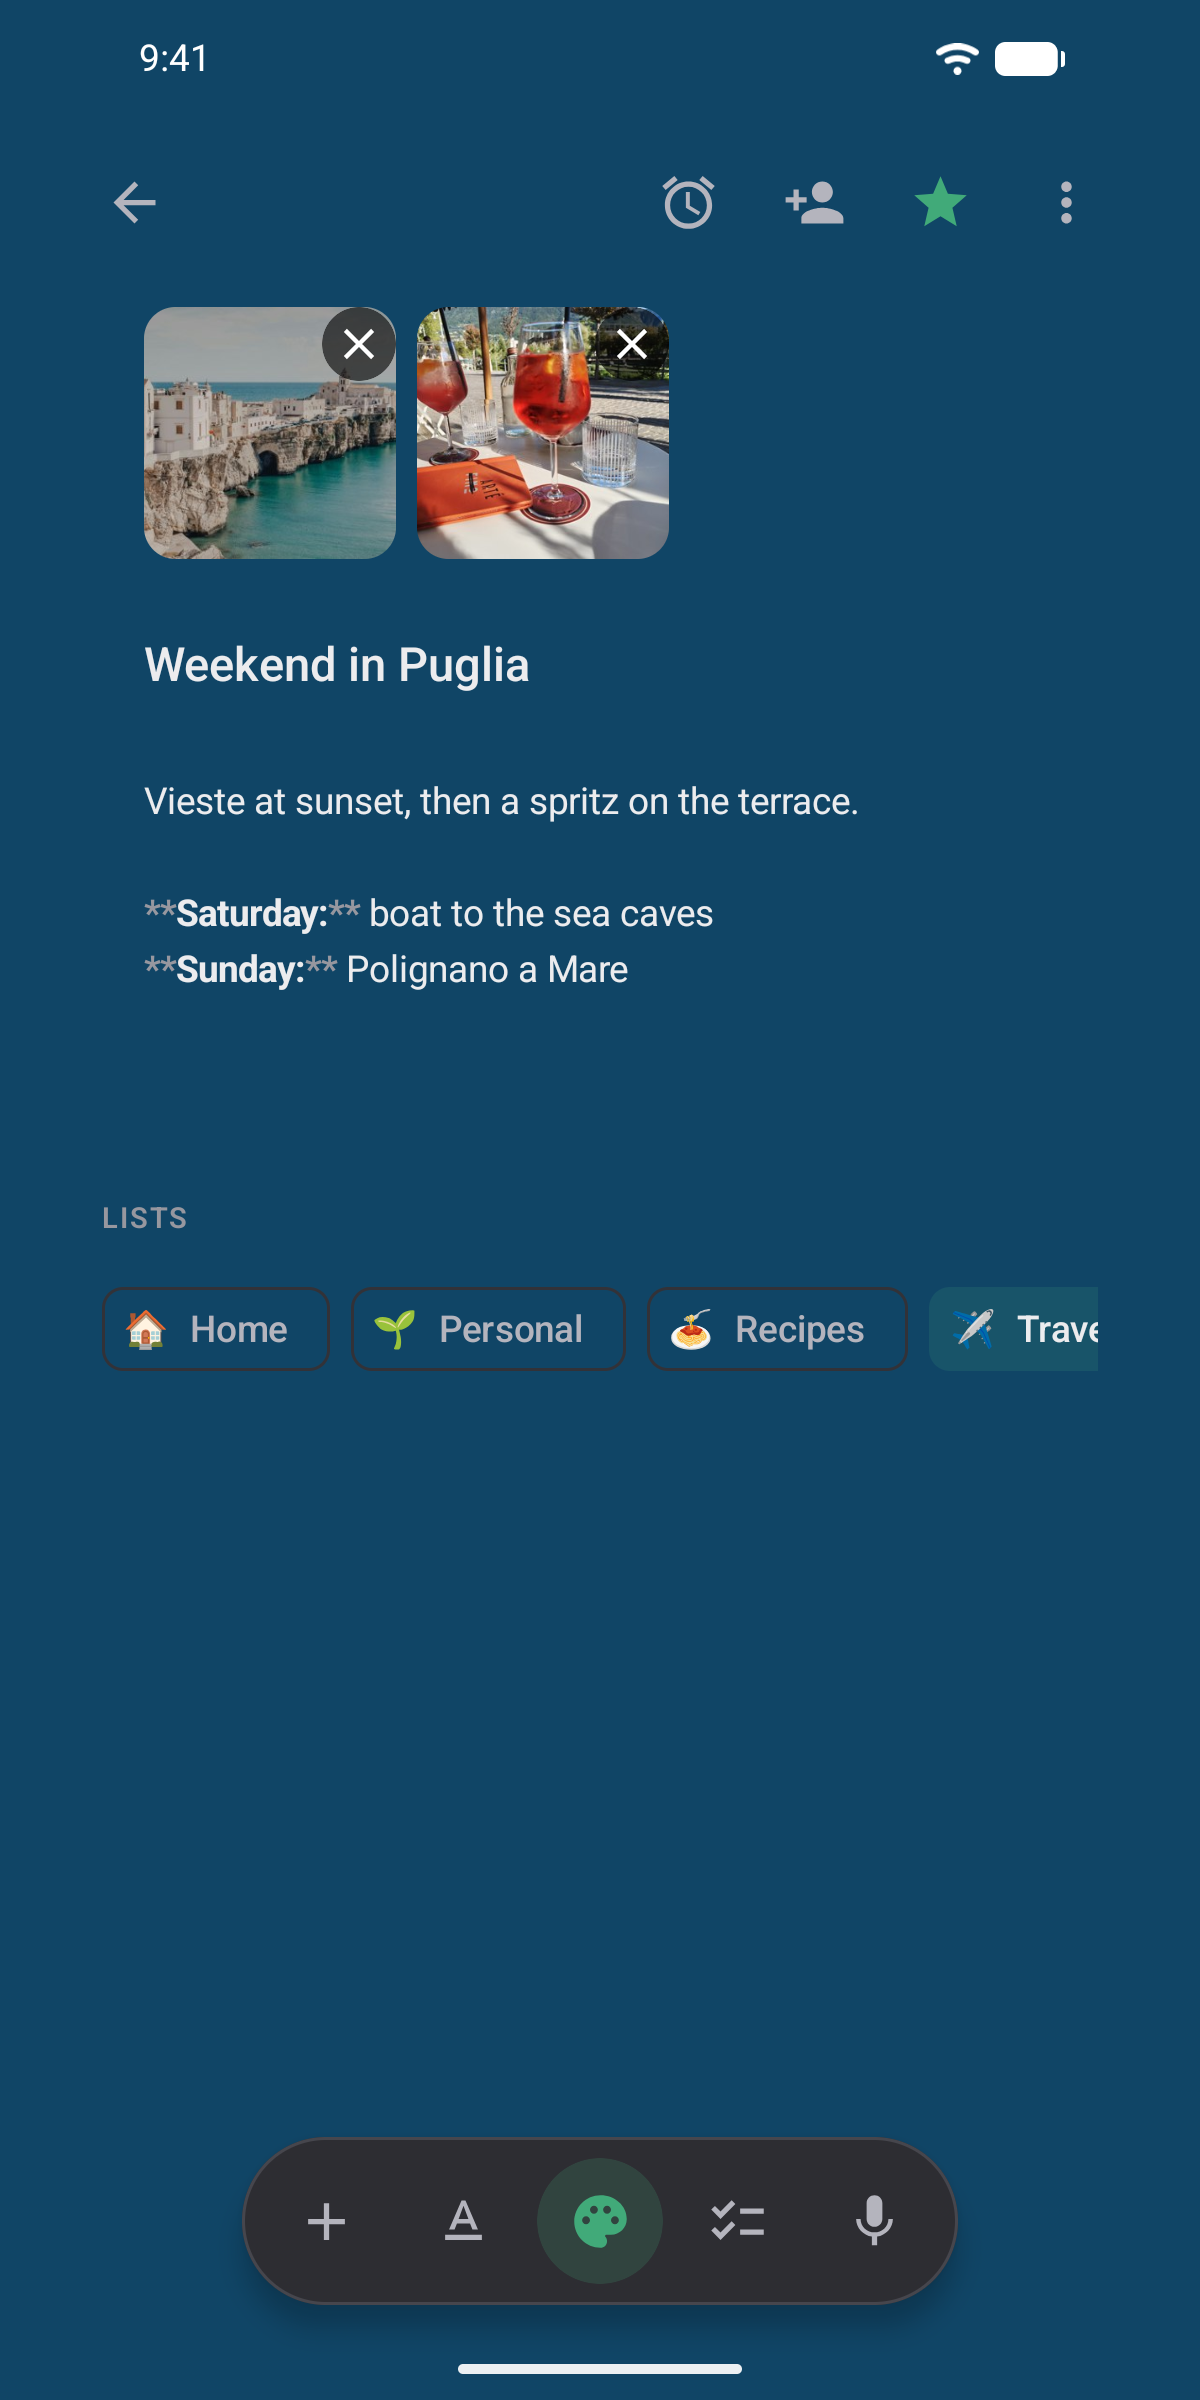
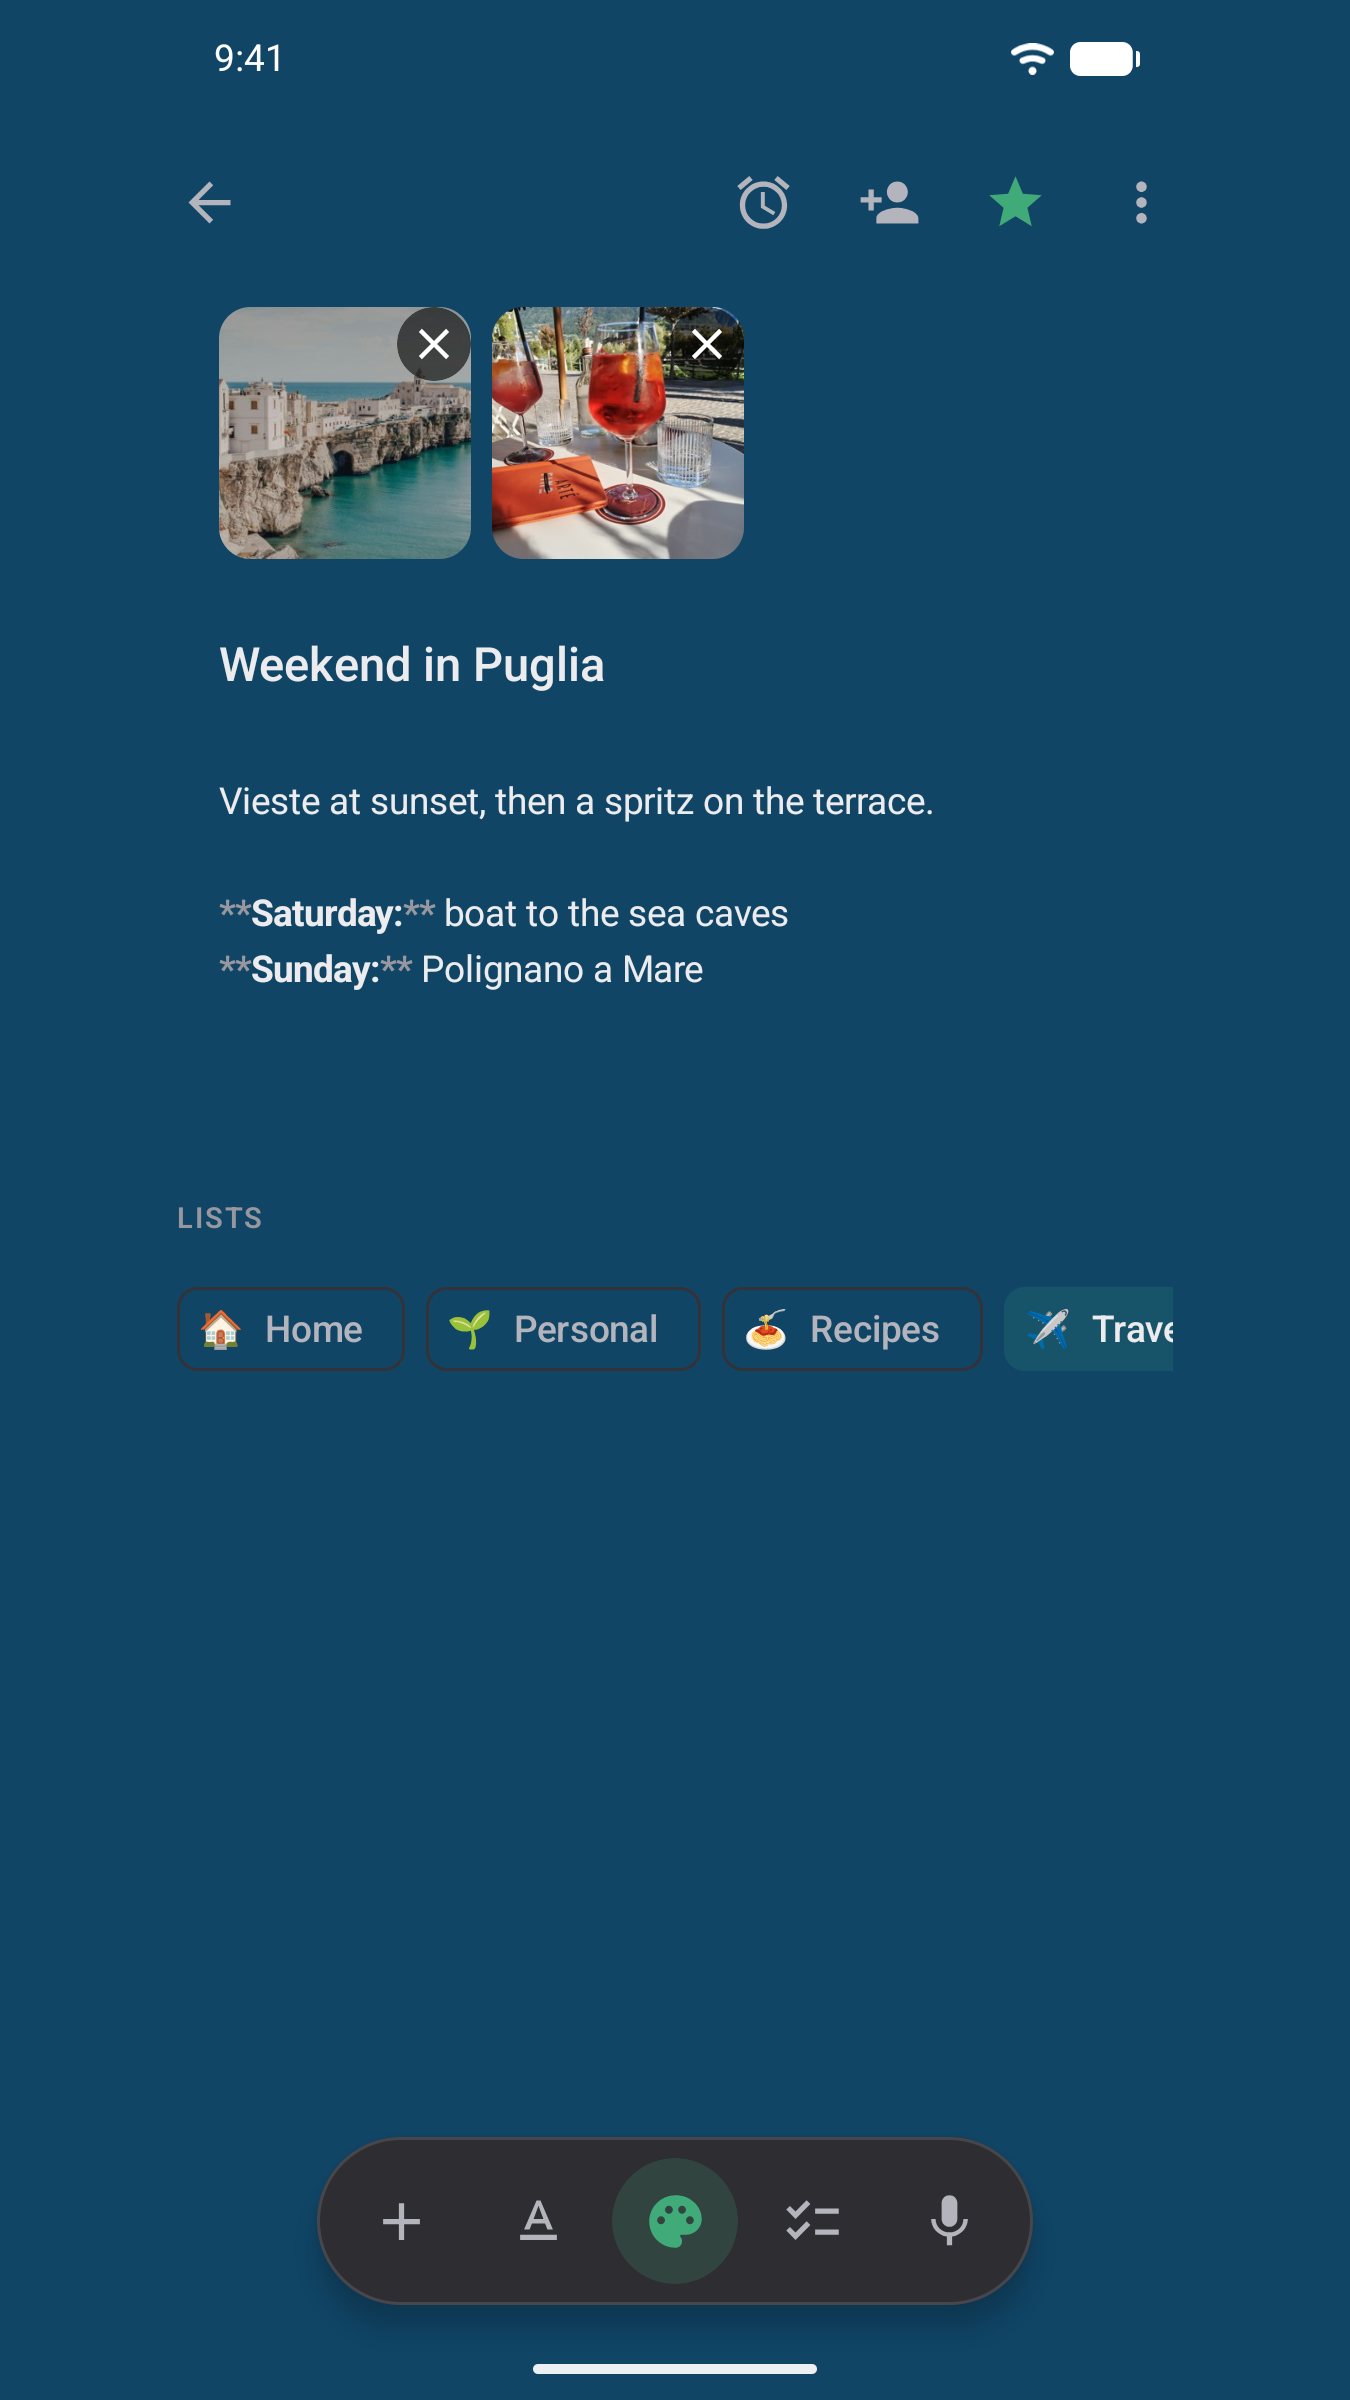
docs: widen the phone screenshots to 9:16, as Play Console asks
Play Console takes phone screenshots at 16:9 or 9:16 only, so the 1200x2400
of the last commit is refused. finish.py now widens the emulator's 1080x2400
to 1350x2400 the same way, and the shots are rebuilt from the originals.
Play also takes at most eight; the README says 9.png is the one to leave out.

diff --git a/scripts/screenshots/finish.py b/scripts/screenshots/finish.py
@@ -11,8 +11,8 @@ without an alpha channel and losslessly optimised: F-Droid and the README show t
 and a screencap carries an alpha channel that nothing uses. The Unraid template links two of them
 under names of their own, so those are written as byte-for-byte copies.
 
-Phone shots are then widened from the emulator's 1080x2400 to 1200x2400, because Google Play takes
-no screenshot longer than 2:1. The 60 pixels added on each side repeat the screen's outermost
+Phone shots are then widened from the emulator's 1080x2400 to 1350x2400, because Google Play takes
+phone screenshots only at 9:16. The 135 pixels added on each side repeat the screen's outermost
 column, row by row, so each screen keeps its own margin in its own theme (the status bar, a note's
 colour, the wallpaper) and nothing on it is scaled. F-Droid and the README show the same files.
 
@@ -29,8 +29,8 @@ PHONE = REPO / "fastlane/metadata/android/en-US/images/phoneScreenshots"
 
 WEB_SIZE = (2880, 1800)
 PHONE_SIZE = (1080, 2400)
-# What a phone shot is widened to: Play's longest side may be at most twice the shortest.
-PHONE_STORE_WIDTH = 1200
+# What a phone shot is widened to: Play Console takes phone screenshots at 16:9 or 9:16 only.
+PHONE_STORE_WIDTH = 1350
 WEB_NAMES = ["web-notes-dark.png", "web-notes-light.png", "web-editor-dim.png"]
 PHONE_NAMES = [f"{n}.png" for n in range(1, 10)]
 # What deploy/keepit.unraid.xml links, and the screenshot each is a copy of.

diff --git a/scripts/screenshots/README.md b/scripts/screenshots/README.md
@@ -34,8 +34,9 @@ change to the app.
 
 Web screenshots are 2880×1800 (a 1440×900 window at twice the density), phone ones are taken at
 1080×2400, all without an alpha channel. `finish.py` refuses any other size, and widens the phone
-ones to 1200×2400 by repeating their outermost columns: Google Play takes no screenshot longer than
-2:1, and F-Droid and the README show the same files.
+ones to 1350×2400 by repeating their outermost columns: Play Console takes phone screenshots at
+9:16 only, and F-Droid and the README show the same files. Play takes at most eight, so `9.png`
+(About) is the one it goes without.
 
 ## 1. A server with the demo account
 

diff --git a/CHANGELOG.md b/CHANGELOG.md
@@ -24,7 +24,7 @@ app. Earlier versions are on the [releases page](https://github.com/Richy1989/ke
   stored and shared on a keepIT server, and what to do about unwanted sharing. Creating an account
   says it accepts them, and About links them, on the web and on Android.
 - The privacy policy now gives an email address for questions: support@hyperstarit.org.
-- The Android screenshots are 1200×2400, the shape Google Play accepts.
+- The Android screenshots are 1350×2400 (9:16), the shape Google Play accepts.
 
 ## 1.0.0
 
